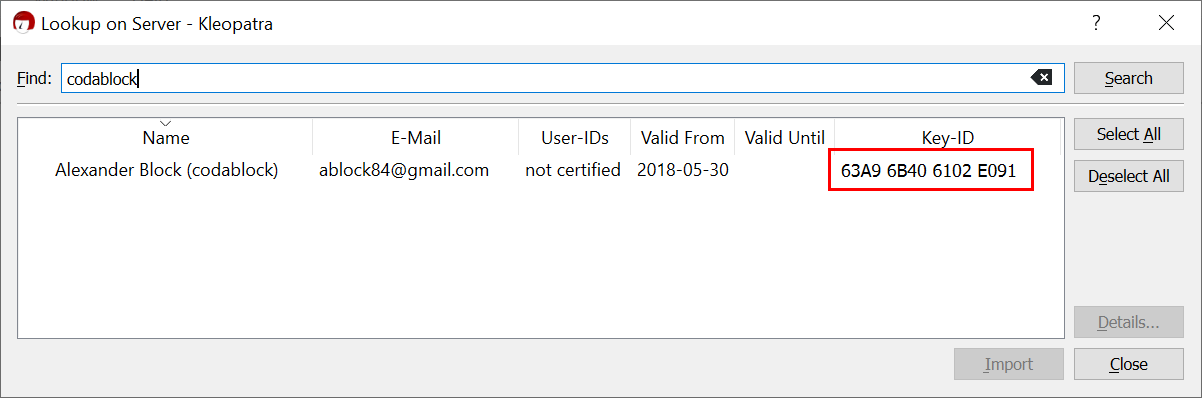
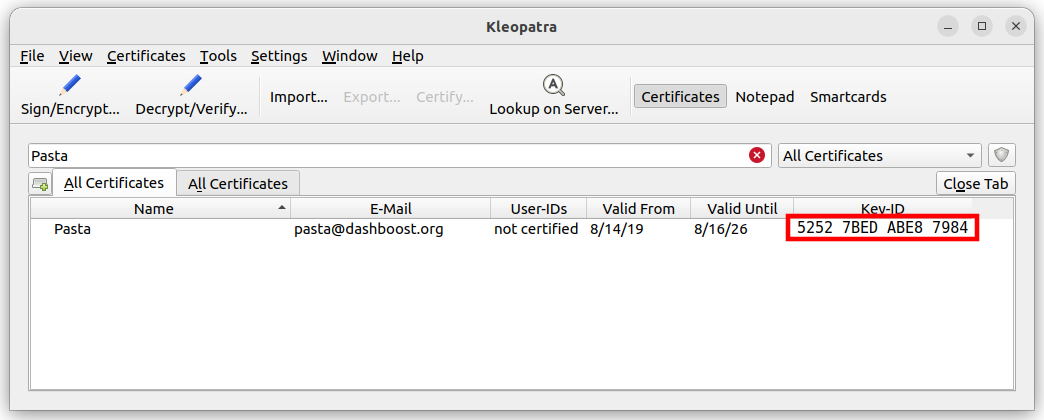
docs: update screenshots for windows verification

Changed region(s): [[0.0, 0.0, 1.0, 1.0]]

diff --git a/docs/user/wallets/dashcore/installation-windows.rst b/docs/user/wallets/dashcore/installation-windows.rst
@@ -9,7 +9,7 @@ Windows Installation Guide
 
 This guide describes how to download, install and encrypt the Dash Core
 wallet for Windows. The guide is written for Windows 10, but the steps
-should be similar for Windows XP, Vista, 7 and 8.
+should be similar for other versions of Windows.
 
 Downloading the Dash Core wallet
 --------------------------------
@@ -60,7 +60,7 @@ Import the key files and verify the Key-ID matches the ID above.
 .. figure:: img/windows/setup-windows-kleopatra-import.png
    :height: 250px
 
-   Importing codablock's GPG public key
+   Importing Pasta's GPG public key
 
 Skip any requests to certify the certificate with your own key. Next,
 click **Decrypt/Verify...** and select the detached signature file named
@@ -80,7 +80,7 @@ of Dash Core for Windows.
 .. figure:: img/windows/setup-windows-kleopatra-verified.png
    :height: 250px
 
-   The binary installer has been verified
+   Example of successful binary installer verification
 
 Running the Dash Core installer
 -------------------------------
